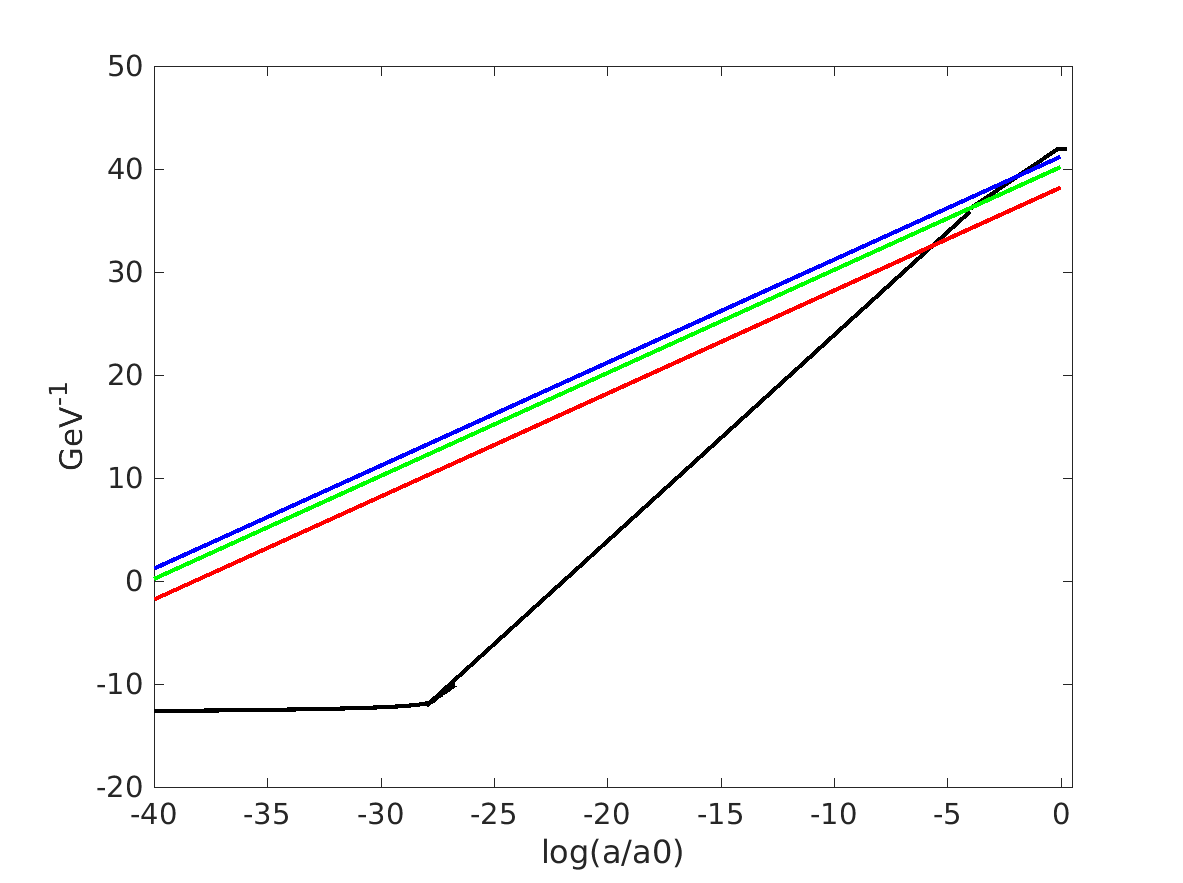
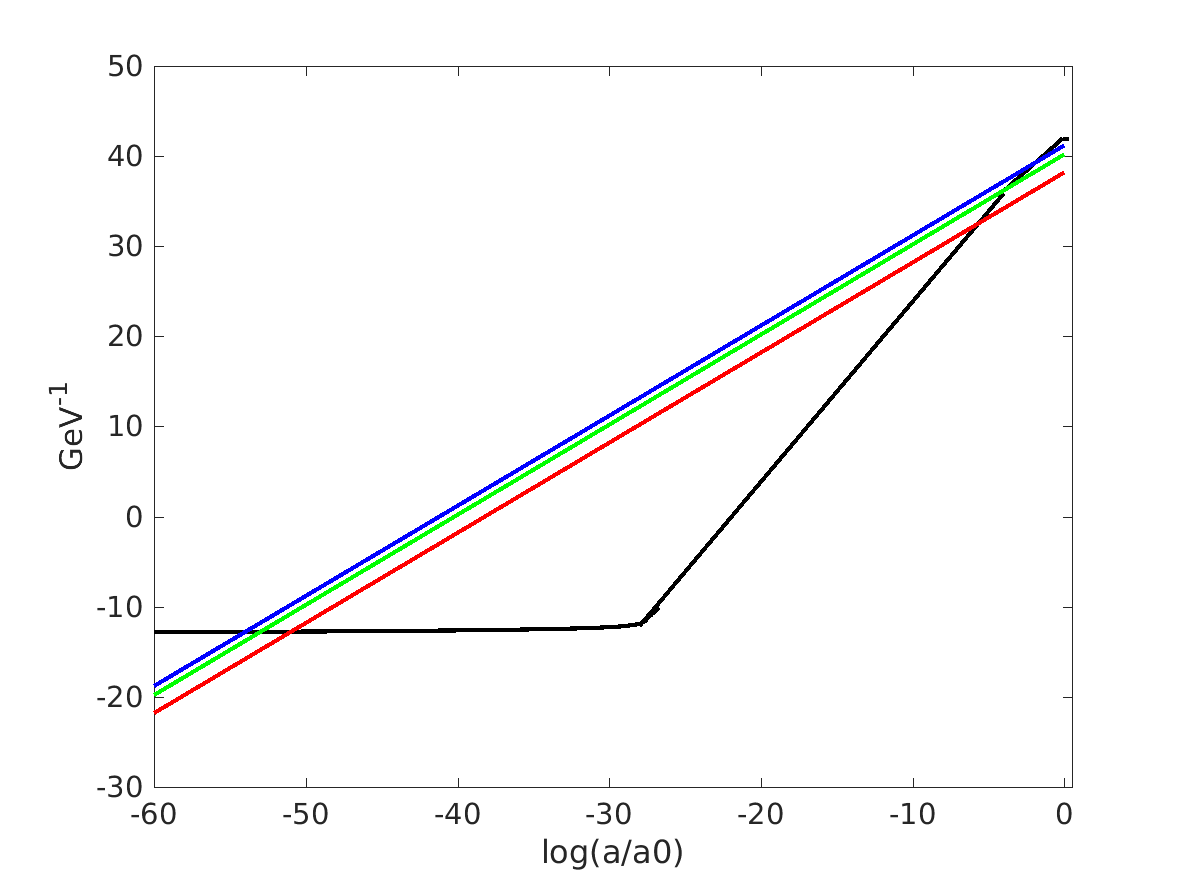
comoving cos model

diff --git a/HW6/prob65.m b/HW6/prob65.m
@@ -103,10 +103,11 @@ hold on;
 plot(log10(a_rad),log10(R_r),'k', 'LineWidth',2);
 plot(log10(a_mat),log10(R_m),'k', 'LineWidth',2);
 plot(log10(a_lambda), log10(R_l),'k', 'LineWidth', 2);
-plot([-40 0], [-40+log10(par.Mpc), log10(par.Mpc)], 'r', 'LineWidth', 2)
-plot([-40 0], [-40+log10(100*par.Mpc), log10(100*par.Mpc)], 'g', 'LineWidth', 2)
-plot([-40 0], [-40+log10(1000*par.Mpc), log10(1000*par.Mpc)], 'b', 'LineWidth', 2)
-xlim([-40 .5]);
+plot([-60 0], [-60+log10(par.Mpc), log10(par.Mpc)], 'r', 'LineWidth', 2)
+plot([-60 0], [-60+log10(100*par.Mpc), log10(100*par.Mpc)], 'g', 'LineWidth', 2)
+plot([-60 0], [-60+log10(1000*par.Mpc), log10(1000*par.Mpc)], 'b', 'LineWidth', 2)
+xlim([-60 .5]);
+%ylim([30 44 ])
 xlabel('log(a/a0)');
 ylabel('GeV^{-1}');
 hold off
